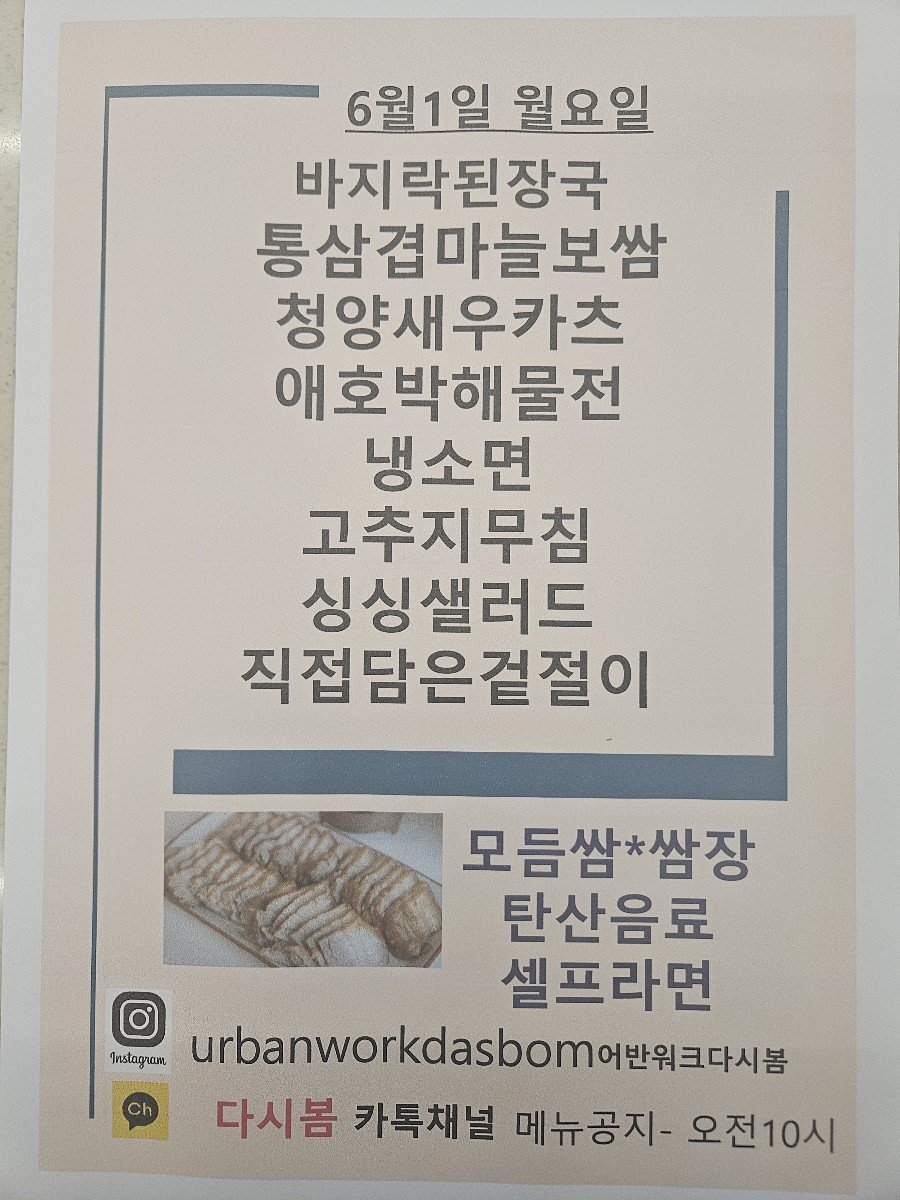
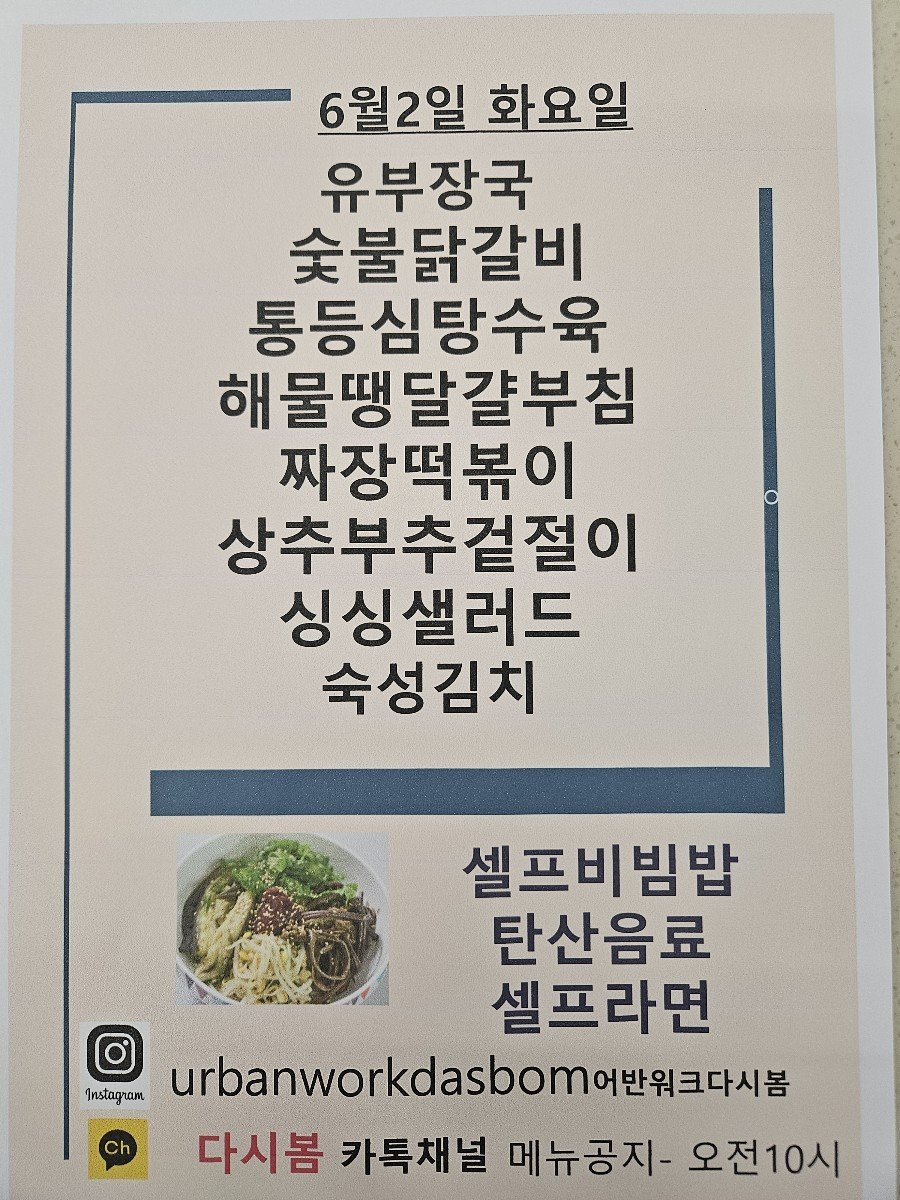
Update menu board assets

diff --git a/menu-today/index.html b/menu-today/index.html
@@ -209,7 +209,7 @@
 
     <section class="meta-bar">
       <div class="meta-card"><div class="meta-label">기준 날짜</div><div class="meta-value">2026년 6월 2일 화요일</div></div>
-      <div class="meta-card"><div class="meta-label">최종 가져온 시간</div><div class="meta-value">2026-06-02 09:33:19</div></div>
+      <div class="meta-card"><div class="meta-label">최종 가져온 시간</div><div class="meta-value">2026-06-02 09:48:25</div></div>
       <div class="meta-card"><div class="meta-label">확인 완료</div><div class="meta-value">10개 식당</div></div>
       <div class="meta-card"><div class="meta-label">준비중</div><div class="meta-value">3개 채널</div></div>
     </section>
@@ -235,7 +235,7 @@
             <div class="sub">가산 어반워크</div>
           </div>
         </div>
-        <div class="menu-inline-image"><img src="./images/dasibom.png" alt="다시 봄 식단 이미지"></div><ul><li>통삼겹마늘보쌈</li><li>; 청양새우카즈</li><li>애호박해물전</li><li>싱싱샐러드</li><li>; 직접담은겉절이</li></ul>
+        <div class="menu-inline-image"><img src="./images/dasibom.png" alt="다시 봄 식단 이미지"></div><ul><li>유부장국</li><li>통등심탕수육</li><li>짜장떡볶이</li><li>상추부주겉절이</li><li>싱싱샐러드</li><li>숙성김치</li><li>으브자</li><li>닭갈비</li></ul>
       </article>
 
       <article class="restaurant-card">
